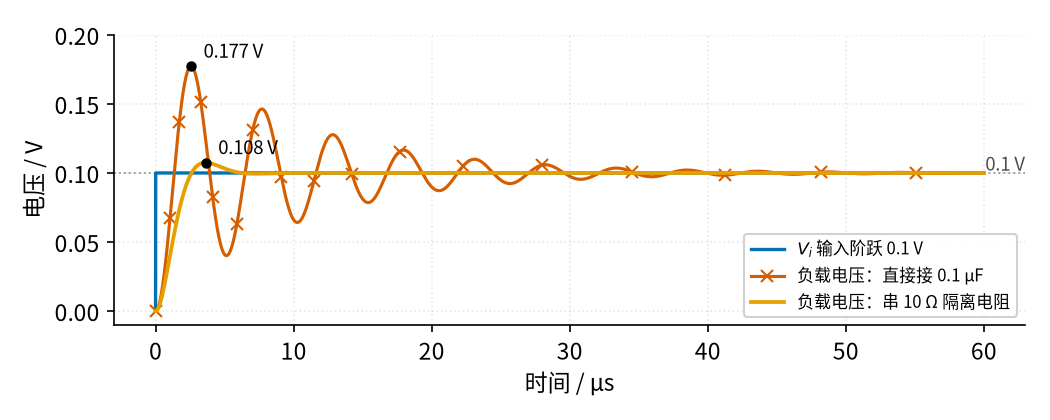
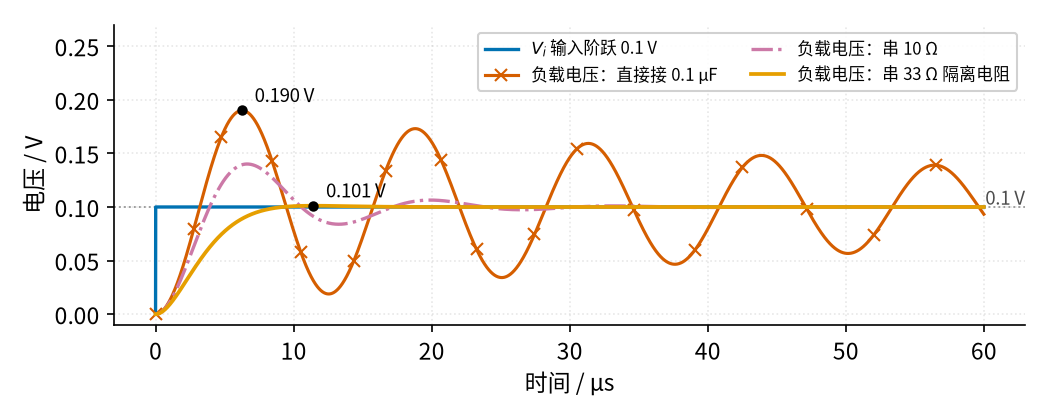
update: 电压跟随器

diff --git a/code/figs/03_figs.py b/code/figs/03_figs.py
@@ -106,12 +106,15 @@ save_schem(d, N, "03_p2_3_vref_buffer.png")
 
 # ---------- 图 03-p3-1 容性负载：振铃与隔离电阻 ----------
 wt = 2 * np.pi * 1.2e6                                 # LM358B 增益带宽积 1.2 MHz
-Ro, CL = 50.0, 0.1e-6                                  # 运放开环输出电阻 50 Ω（示意用假设值）、负载电容 0.1 μF
+Ro, CL = 300.0, 0.1e-6                                 # LM358B 手册：开环输出电阻 RO = 300 Ω（f = 1 MHz、IO = 0）；负载电容 0.1 μF
+CLOAD_RATED = 100e-12                                  # LM358B 手册：容性负载驱动能力 100 pF
+print(f"负载电容 0.1 μF 是手册容性负载能力 100 pF 的 {CL / CLOAD_RATED:.0f} 倍")
+assert round(CL / CLOAD_RATED) == 1000
 t = np.linspace(0, 60e-6, 6001)
 fig, ax = plt.subplots(figsize=fs.SIZE["single"])
 ax.plot(t * 1e6, np.where(t > 0, 1.0, 0.0) * 0.1, **fs.LS["vin"], label="$V_i$ 输入阶跃 0.1 V")
-res = {}
-for Riso, key, name in ((0.0, "bad", "直接接 0.1 μF"), (10.0, "vout", "串 10 Ω 隔离电阻")):
+res, settle = {}, {}
+for Riso, key, name in ((0.0, "bad", "直接接 0.1 μF"), (10.0, "third", "串 10 Ω"), (33.0, "vout", "串 33 Ω 隔离电阻")):
     T = (Ro + Riso) * CL
     # 负载电压 / 输入 = wt / (T s² + (1 + wt·Riso·CL) s + wt)（单极点运放 + 输出电阻 + 隔离电阻 + 电容）
     _, y = signal.step(([wt], [T, 1 + wt * Riso * CL, wt]), T=t)
@@ -119,13 +122,18 @@ for Riso, key, name in ((0.0, "bad", "直接接 0.1 μF"), (10.0, "vout", "串 1
     k = np.argmax(y)
     os_pct = (y[k] / 0.1 - 1) * 100
     res[Riso] = os_pct
+    out = np.abs(y - 0.1) > 0.002                      # 偏离 0.1 V 超过 2%
+    settle[Riso] = t[np.nonzero(out)[0][-1]] if out[-1] == False else np.inf
     ax.plot(t * 1e6, y, **fs.LS[key], label=f"负载电压：{name}")
-    fs.mark(ax, t[k] * 1e6, y[k] * 1e3 / 1e3, fmt="{:.3f}", unit=" V", dx=6, dy=4)
-    print(f"{name}：最高 {y[k]:.3f} V，过冲 {os_pct:.1f}%")
-assert res[0.0] > 50 and res[10.0] < 10
+    if Riso != 10.0:
+        fs.mark(ax, t[k] * 1e6, y[k], fmt="{:.3f}", unit=" V", dx=6, dy=4)
+    print(f"{name}：最高 {y[k]:.3f} V，过冲 {os_pct:.1f}%，进入 ±2% 的时间 {settle[Riso] * 1e6:.1f} μs")
+assert res[0.0] > 80 and 30 < res[10.0] < 50 and res[33.0] < 2
+assert settle[0.0] == np.inf and settle[33.0] < 10e-6   # 直接接电容：60 μs 内都没稳住；33 Ω：10 μs 内稳住
+print(f"1 mA 负载电流在 33 Ω 上的压降：{1e-3 * 33 * 1e3:.0f} mV")
 fs.ref_h(ax, 0.1, "0.1 V")
-fs.axlabels(ax, "时间", "μs", "电压", "V"); ax.legend(loc="lower right", fontsize=8)
-ax.set_ylim(-0.01, 0.2)
+fs.axlabels(ax, "时间", "μs", "电压", "V"); ax.legend(loc="upper right", fontsize=8, ncol=2)
+ax.set_ylim(-0.01, 0.27)
 fs.save(fig, N, "03_p3_1_cap_load.png")
 
 # ---------- 图 03-p3-2 单电源 5 V 跟随器：两头都到不了 ----------

diff --git a/03-voltage-follower/page3.md b/03-voltage-follower/page3.md
@@ -1,6 +1,6 @@
 # 03 电压跟随器 · 参数与调试篇
 
-[上一页：原理与实现篇](page2.md) · [直觉篇](page1.md) · [原理与实现篇](page2.md) · 本页：参数与调试篇 · [下一页：06 桥式整流](../06-bridge-rectifier/page1.md) · 前置节点：[02 同相放大](../02-noninverting-amp/page1.md) · 后续：[07 射极跟随器](../07-emitter-follower/page1.md)、[15 有源滤波](../15-active-filter/page1.md)
+[上一页：原理与实现篇](page2.md) · [直觉篇](page1.md) · [原理与实现篇](page2.md) · 本页：参数与调试篇 · [下一页：06 桥式整流 · 直觉篇](../06-bridge-rectifier/page1.md) · 前置节点：[02 同相放大 · 直觉篇](../02-noninverting-amp/page1.md) · 后续：[07 射极跟随器 · 直觉篇](../07-emitter-follower/page1.md)、[15 有源滤波 · 直觉篇](../15-active-filter/page1.md)
 
 ## 这一页解决什么问题
 
@@ -12,13 +12,15 @@
 
 治法是在运放输出和电容之间串一个几欧到几十欧的**隔离电阻** $R_{iso}$ （iso 是英文 isolation"隔离"的缩写），把电容和反馈点隔开一点。看 图 03-p3-1，输入是一个 0.1 V 的小阶跃，负载电容 0.1 μF。
 
-![横轴时间 0 到 60 微秒；蓝色输入阶跃 0.1 伏；朱红色带叉的直接接电容曲线最高 0.177 伏、反复振荡几十微秒；橙色串 10 欧隔离电阻的曲线最高 0.108 伏、很快稳定](img/03_p3_1_cap_load.png)
+![横轴时间 0 到 60 微秒；蓝色输入阶跃 0.1 伏；朱红色带叉的直接接电容曲线最高 0.190 伏、到 60 微秒还在振荡；红紫色点划线串 10 欧，最高 0.140 伏；橙色串 33 欧隔离电阻的曲线最高 0.101 伏、约 8 微秒稳定](img/03_p3_1_cap_load.png)
 
 *图 03-p3-1　跟随器驱动 0.1 μF 电容时的阶跃响应*
 
-图 03-p3-1 中，朱红色带 × 的曲线（直接接电容）最高冲到 0.177 V，比目标 0.1 V 多出 77%，然后来回振荡了几十微秒才停下；橙色曲线（串 10 Ω 隔离电阻）最高只有 0.108 V，过冲约 8%，很快就稳在灰色点线 0.1 V 上。注意：这张图用的是简化模型，运放输出电阻取了 50 Ω，这是为了示意而**假设**的值 [待核实]，真实芯片的振铃程度要以数据手册和实测为准；但"串隔离电阻能大幅减小振铃"这个结论，与 TI 参考设计 TIDU032C 中用 6.2 Ω 驱动 0.1 μF 的做法一致。
+图 03-p3-1 中，朱红色带 × 的曲线（直接接电容）最高冲到 0.190 V，比目标 0.1 V 多出 90%，到 60 μs 还在来回振荡；红紫色点划线（串 10 Ω）好一些，过冲 40%；橙色曲线（串 33 Ω 隔离电阻）最高只有 0.101 V，过冲约 1%，约 8 μs 就稳在灰色点线 0.1 V 上（误差进入 ±2%）。
 
-隔离电阻的代价：负载电流在它上面会有压降。比如负载电流 1 mA、 $R_{iso}$ = 10 Ω，压降 10 mV。对精度要求高时，可以把反馈从电容一侧取回来（属于进阶内容，这里不展开）。
+模型里运放的输出电阻取 300 Ω，出自 [LM358B 数据手册](https://www.ti.com/lit/ds/symlink/lm358.pdf) 电气特性表的"开环输出电阻 RO = 300 Ω（1 MHz、输出电流为 0）"。真实芯片的输出电阻随频率变化，这里当作一个固定值，是简化。同一张表还写着 LM358B 的"容性负载驱动能力"只有 100 pF，而 0.1 μF 是它的 1000 倍，所以振铃这么厉害并不奇怪。真实芯片的振铃程度仍要以实测为准，但"串隔离电阻能大幅减小振铃"这个结论，和 TI 参考设计 TIDU032C 用 6.2 Ω 驱动 0.1 μF 的做法一致（那款运放的输出电阻不同，所以电阻值也不同）。
+
+隔离电阻的代价：负载电流在它上面会有压降。比如负载电流 1 mA、 $R_{iso}$ = 33 Ω，压降 33 mV。对精度要求高时，可以把反馈从电容一侧取回来（属于进阶内容，这里不展开）。
 
 ## 二、单电源：输入输出都有"禁区"
 
@@ -47,7 +49,7 @@ $$f_{max} = \frac{SR}{2\pi V_p}$$
 3. **压摆率**：决定大信号能有多快。
 4. **能否驱动容性负载**：手册里通常会给出"能直接驱动多少皮法"的说明，超过就要串隔离电阻。
 
-跟随器的倍数只有 1，所以 [02 同相放大](../02-noninverting-amp/page3.md) 讲过的"闭环带宽 ≈ GBW ÷ 倍数"在这里最宽，约 1.2 MHz；对跟随器来说，大信号时先碰到的限制往往是压摆率，而不是带宽。
+跟随器的倍数只有 1，所以 [02 同相放大 · 参数与调试篇](../02-noninverting-amp/page3.md) 讲过的"闭环带宽 ≈ GBW ÷ 倍数"在这里最宽，约 1.2 MHz；对跟随器来说，大信号时先碰到的限制往往是压摆率，而不是带宽。
 
 ## 四、故障排查表
 
@@ -97,4 +99,4 @@ $f_{max}$ = 0.5 V/μs ÷ (2π × 2 V) = 500000 ÷ 12.6 ≈ 40 kHz。要传 100 k
 
 ## 本页小结
 
-**跟随器两大坑：容性负载会振铃（串十几欧隔离电阻），单电源下输出有上下禁区（LM358B 在 5 V 时约 0.1～3.5 V）。排查时先断负载、再看反馈线、最后对照电源范围**。
+**跟随器两大坑：容性负载会振铃（串几十欧隔离电阻），单电源下输出有上下禁区（LM358B 在 5 V 时约 0.1～3.5 V）。排查时先断负载、再看反馈线、最后对照电源范围**。

diff --git a/03-voltage-follower/page2.md b/03-voltage-follower/page2.md
@@ -1,10 +1,10 @@
 # 03 电压跟随器 · 原理与实现篇
 
-[上一页：直觉篇](page1.md) · [直觉篇](page1.md) · 本页：原理与实现篇 · [参数与调试篇](page3.md) · [下一页：参数与调试篇](page3.md) · 前置节点：[02 同相放大](../02-noninverting-amp/page1.md)
+[上一页：直觉篇](page1.md) · [直觉篇](page1.md) · 本页：原理与实现篇 · [参数与调试篇](page3.md) · [下一页：参数与调试篇](page3.md) · 前置节点：[02 同相放大 · 直觉篇](../02-noninverting-amp/page1.md)
 
 ## 这一页要解决的问题
 
-直觉篇说跟随器"不打扰前级、又能喂饱后级"。这一页先用虚短虚断两行推出 $V_o = V_i$ ，再从 [02 同相放大](../02-noninverting-amp/page2.md) 的公式看它为什么是特例；然后用仿真定量回答"负载多重时，直接接法会掉多少"；最后三道例题，第三道是跟随器最常见的实际用途：**基准电压缓冲**。
+直觉篇说跟随器"不打扰前级、又能喂饱后级"。这一页先用虚短虚断两行推出 $V_o = V_i$ ，再从 [02 同相放大 · 原理与实现篇](../02-noninverting-amp/page2.md) 的公式看它为什么是特例；然后用仿真定量回答"负载多重时，直接接法会掉多少"；最后三道例题，第三道是跟随器最常见的实际用途：**基准电压缓冲**。
 
 ## 一、推导：两行就够
 
@@ -30,7 +30,7 @@ $$V_o = V_- \approx V_+ = V_i$$
 
 **输入电阻和输出电阻**。虚断说明同相端不取电流，所以从输入看进去的电阻极大（理想为无穷大）。输出端呢？负反馈会不断比较"输出是否等于输入"，输出稍一被负载拉低，差值就被运放放大 A 倍去纠正，所以输出电压几乎不随负载变化，相当于**输出电阻极小**的电压源。
 
-**再严格一点：为什么是"几乎"相等**。虚短是一个近似。回到 [P3 运放入门](../P3-opamp-basics/page2.md) 的原始规律：输出等于开环增益 $A$ （运放不加反馈时的放大倍数，约 10 万）乘以两输入端的电压差。
+**再严格一点：为什么是"几乎"相等**。虚短是一个近似。回到 [P3 运放入门 · 原理与实现篇](../P3-opamp-basics/page2.md) 的原始规律：输出等于开环增益 $A$ （运放不加反馈时的放大倍数，约 10 万）乘以两输入端的电压差。
 
 1. 运放规律：输出 = A ×（同相端 − 反相端），即 $V_o = A(V_i - V_o)$ ，这里用了"反相端就是输出"。
 2. 移项：把含 $V_o$ 的项都移到左边， $V_o + A V_o = A V_i$ 。

diff --git a/03-voltage-follower/page1.md b/03-voltage-follower/page1.md
@@ -1,6 +1,6 @@
 # 03 电压跟随器 · 直觉篇
 
-[上一页：18 互锁 · 参数与调试篇](../18-interlock/page3.md) · 本页：直觉篇 · [原理与实现篇](page2.md) · [参数与调试篇](page3.md) · [下一页：原理与实现篇](page2.md) · 前置节点：[02 同相放大](../02-noninverting-amp/page1.md)
+[上一页：18 互锁 · 参数与调试篇](../18-interlock/page3.md) · 本页：直觉篇 · [原理与实现篇](page2.md) · [参数与调试篇](page3.md) · [下一页：原理与实现篇](page2.md) · 前置节点：[02 同相放大 · 直觉篇](../02-noninverting-amp/page1.md)
 
 ## 痛点：一接负载，电压就掉
 
@@ -18,7 +18,7 @@
 
 - **传感器接长线和小电阻负载**：一个内阻 20 kΩ 的温度传感器，直接接到输入电阻只有 10 kΩ 的电路上，读数只剩三分之一，看起来像"温度变低了"。
 - **给模数转换器当基准**：单片机的模数转换器每次采样都要从输入端"吸"一小口电流，分压器给的基准电压会跟着一跳一跳，读数抖动。
-- **滤波器后面接负载**：一个 RC 低通滤波器后面直接接小电阻，截止频率和衰减量全变了（[15 有源滤波](../15-active-filter/page1.md) 会用到这一点）。
+- **滤波器后面接负载**：一个 RC 低通滤波器后面直接接小电阻，截止频率和衰减量全变了（[15 有源滤波 · 直觉篇](../15-active-filter/page1.md) 会用到这一点）。
 
 这些问题有一个共同点：**前级本身没坏，是后级把它"拖垮"了**。好比一根细水管，本来出水压力正常，一下接上十个水龙头同时开，压力就掉了。我们要的不是换一根粗水管（换小电阻的分压器会白白耗电），而是在中间加一个"增压泵"。
 
@@ -30,7 +30,7 @@
 
 *图 03-p1-2　电压跟随器*
 
-图 03-p1-2 中没有任何电阻：输入 $V_i$ 接同相端，输出 $V_o$ 用一根导线直接接回反相端。它就是 [02 同相放大](../02-noninverting-amp/page1.md) 在反馈电阻为 0、接地电阻断开时的特例：倍数 1 + 0 = 1。
+图 03-p1-2 中没有任何电阻：输入 $V_i$ 接同相端，输出 $V_o$ 用一根导线直接接回反相端。它就是 [02 同相放大 · 直觉篇](../02-noninverting-amp/page1.md) 在反馈电阻为 0、接地电阻断开时的特例：倍数 1 + 0 = 1。
 
 $$V_o = V_i$$
 

diff --git a/notes/03-research.md b/notes/03-research.md
@@ -8,7 +8,9 @@
 ## 实战代码 / 容性负载
 - TI TIDU032C（容性负载驱动参考设计）https://www.ti.com/lit/pdf/tidu032 ：用隔离电阻 RISO（例 6.2 Ω）驱动 0.1 μF，设计相位裕度 45°、过冲约 23%（其运放并非 LM358B）。
 - TI SSZT999（容性负载稳定性博客）https://www.ti.com/lit/pdf/sszt999 、SBOA418 https://www.ti.com/lit/pdf/sboa418 ：容性负载与运放输出电阻形成额外极点，相位裕度下降，阶跃出现振铃；串小电阻隔离。
-- 本节容性负载图用一阶运放模型 + 开环输出电阻 50 Ω（**假设值，仅示意**，LM358B 手册未查到该典型值）+ 0.1 μF，scipy.signal.step 求阶跃响应。
+- 本节容性负载图用一阶运放模型（GBW 1.2 MHz）+ 开环输出电阻 + 0.1 μF，scipy.signal.step 求阶跃响应。
+- （本轮更正）开环输出电阻原用 50 Ω 假设值（原有核实标记，现已删除）；现已在 LM358B 数据手册 https://www.ti.com/lit/ds/symlink/lm358.pdf （LM358B/LM358BA 电气特性表，已下载打开）查到：RO open-loop output resistance 300 Ω（f = 1 MHz，IO = 0 A）；CLOAD capacitive load drive 100 pF。模型改用 300 Ω（按固定值处理，属简化）。
+- 新结果（03_figs.py 打印并断言）：直接接 0.1 μF 最高 0.190 V、过冲 90%，60 μs 内不稳定；串 10 Ω 过冲 40%；串 33 Ω 最高 0.101 V、过冲 1.2%、8.2 μs 进入 ±2%；0.1 μF / 100 pF = 1000 倍；1 mA × 33 Ω = 33 mV。
 
 ## 常见误区
 - 以为 1 倍没用（作用是阻抗变换/隔离）。
